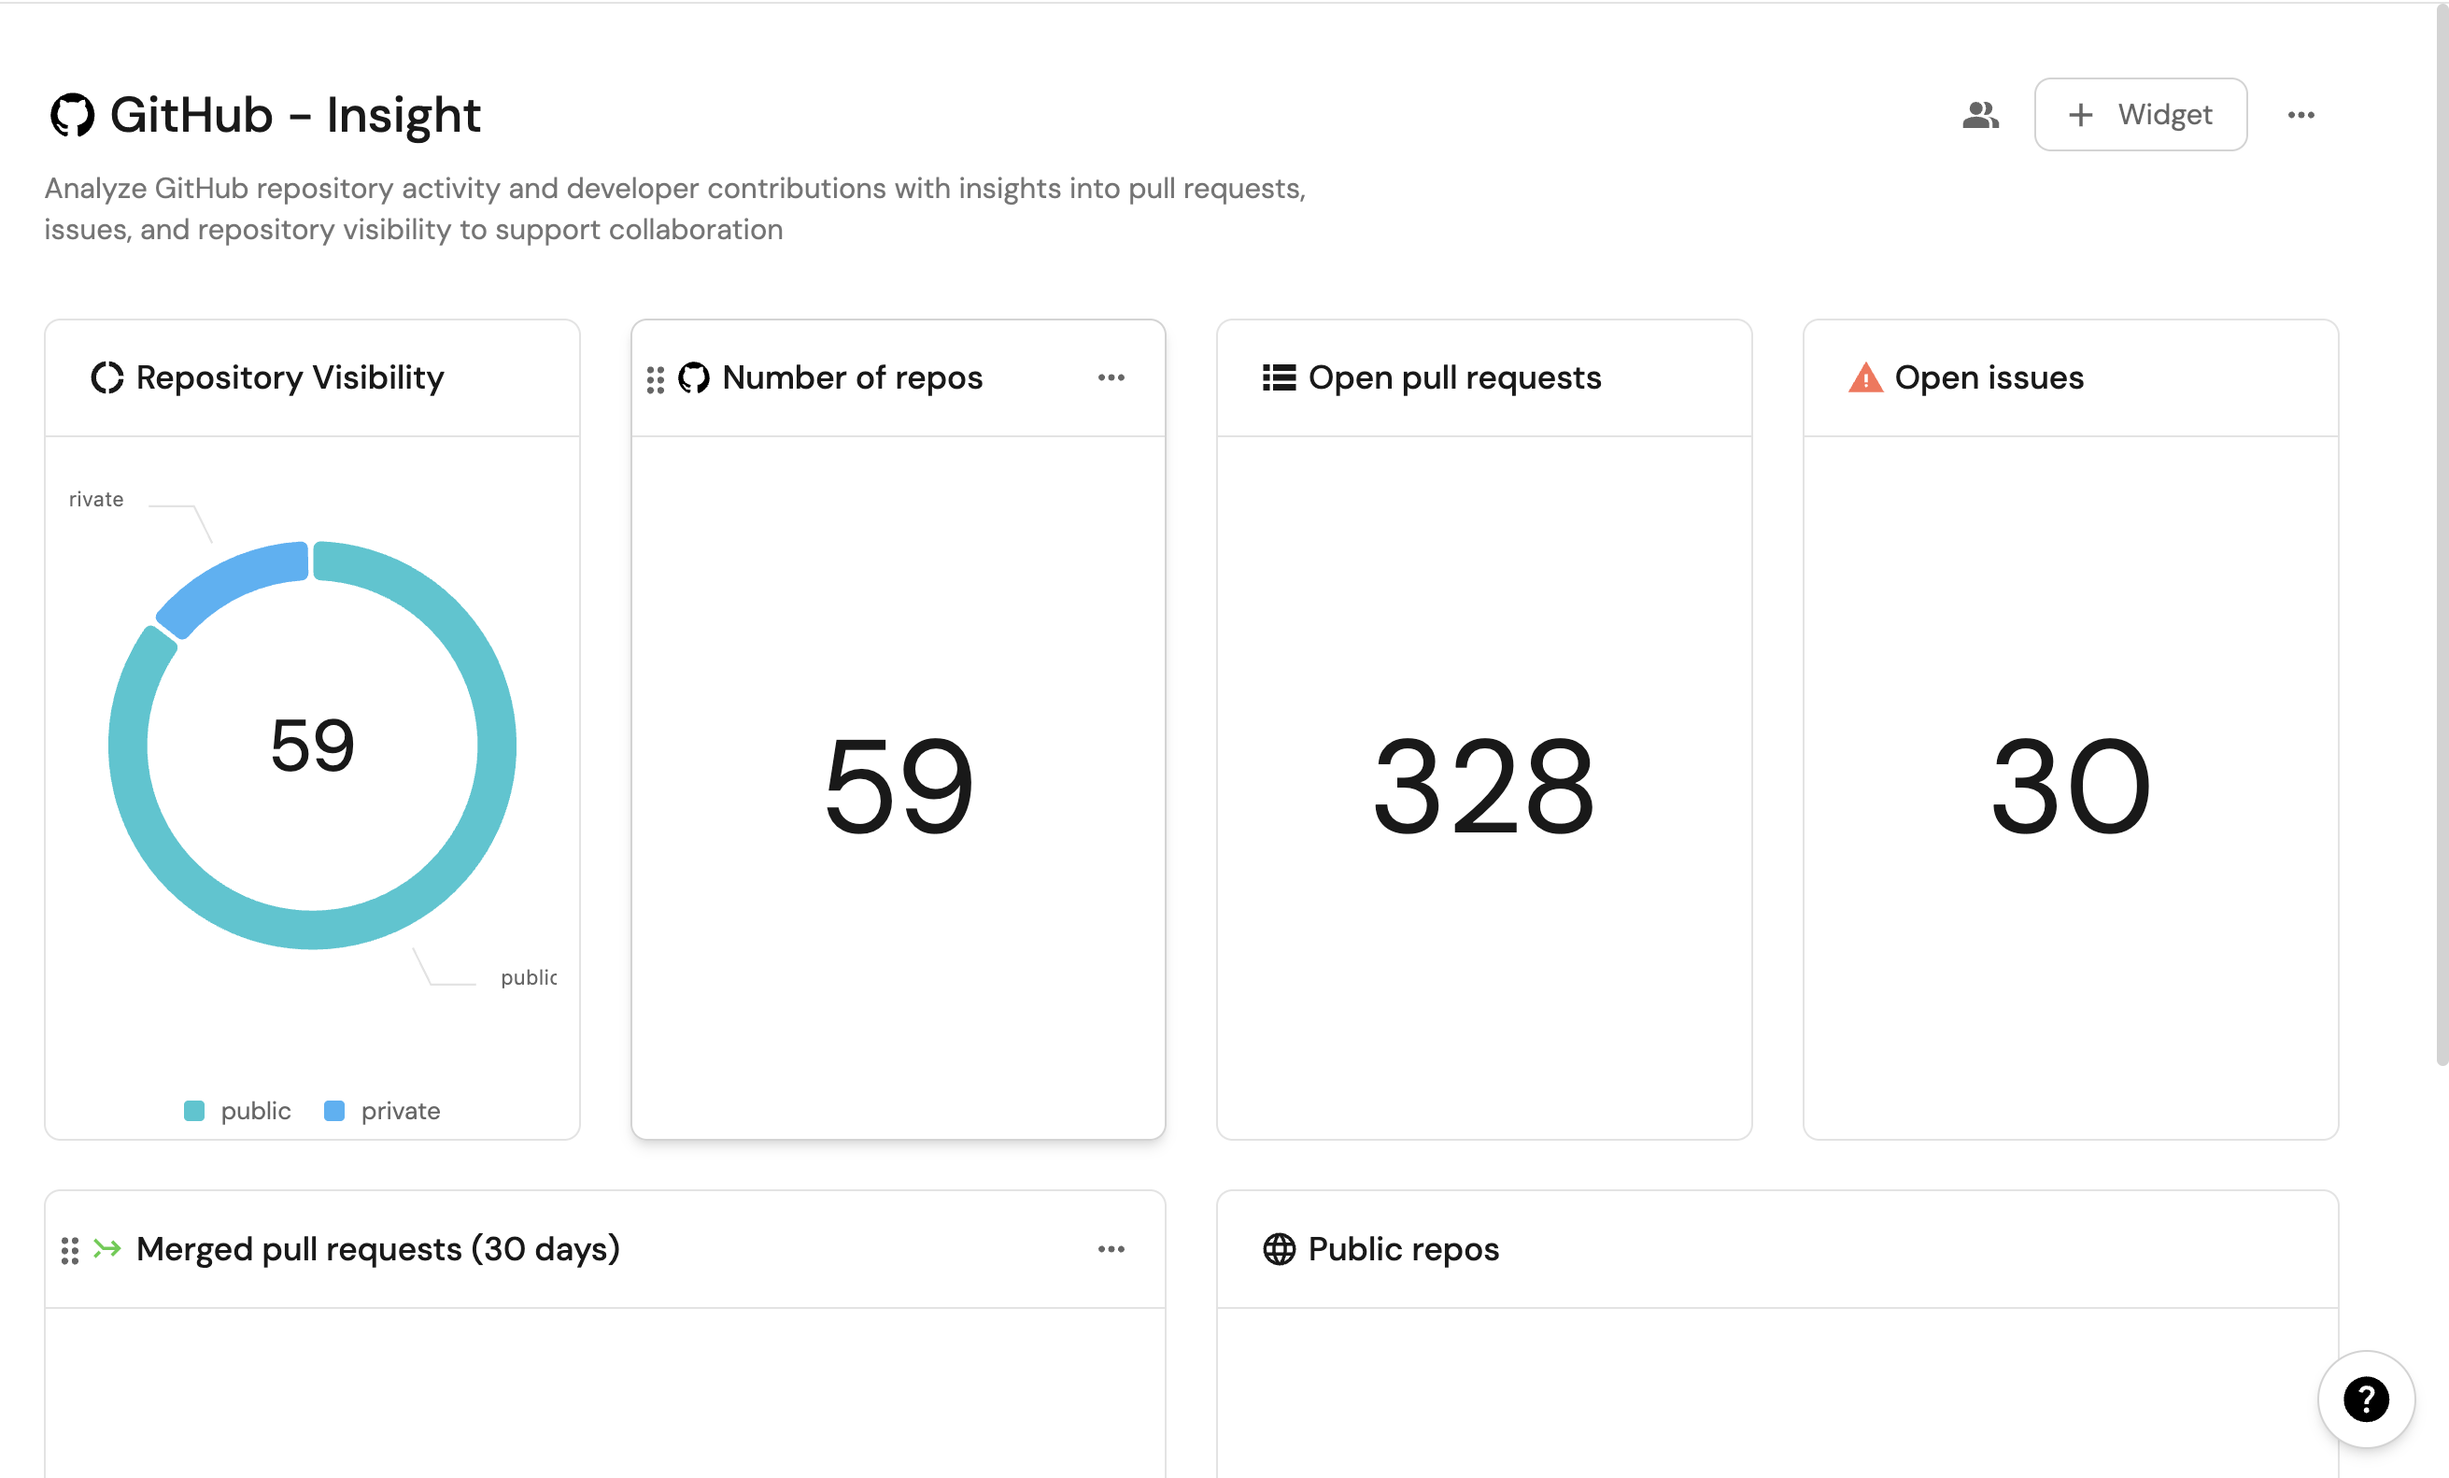
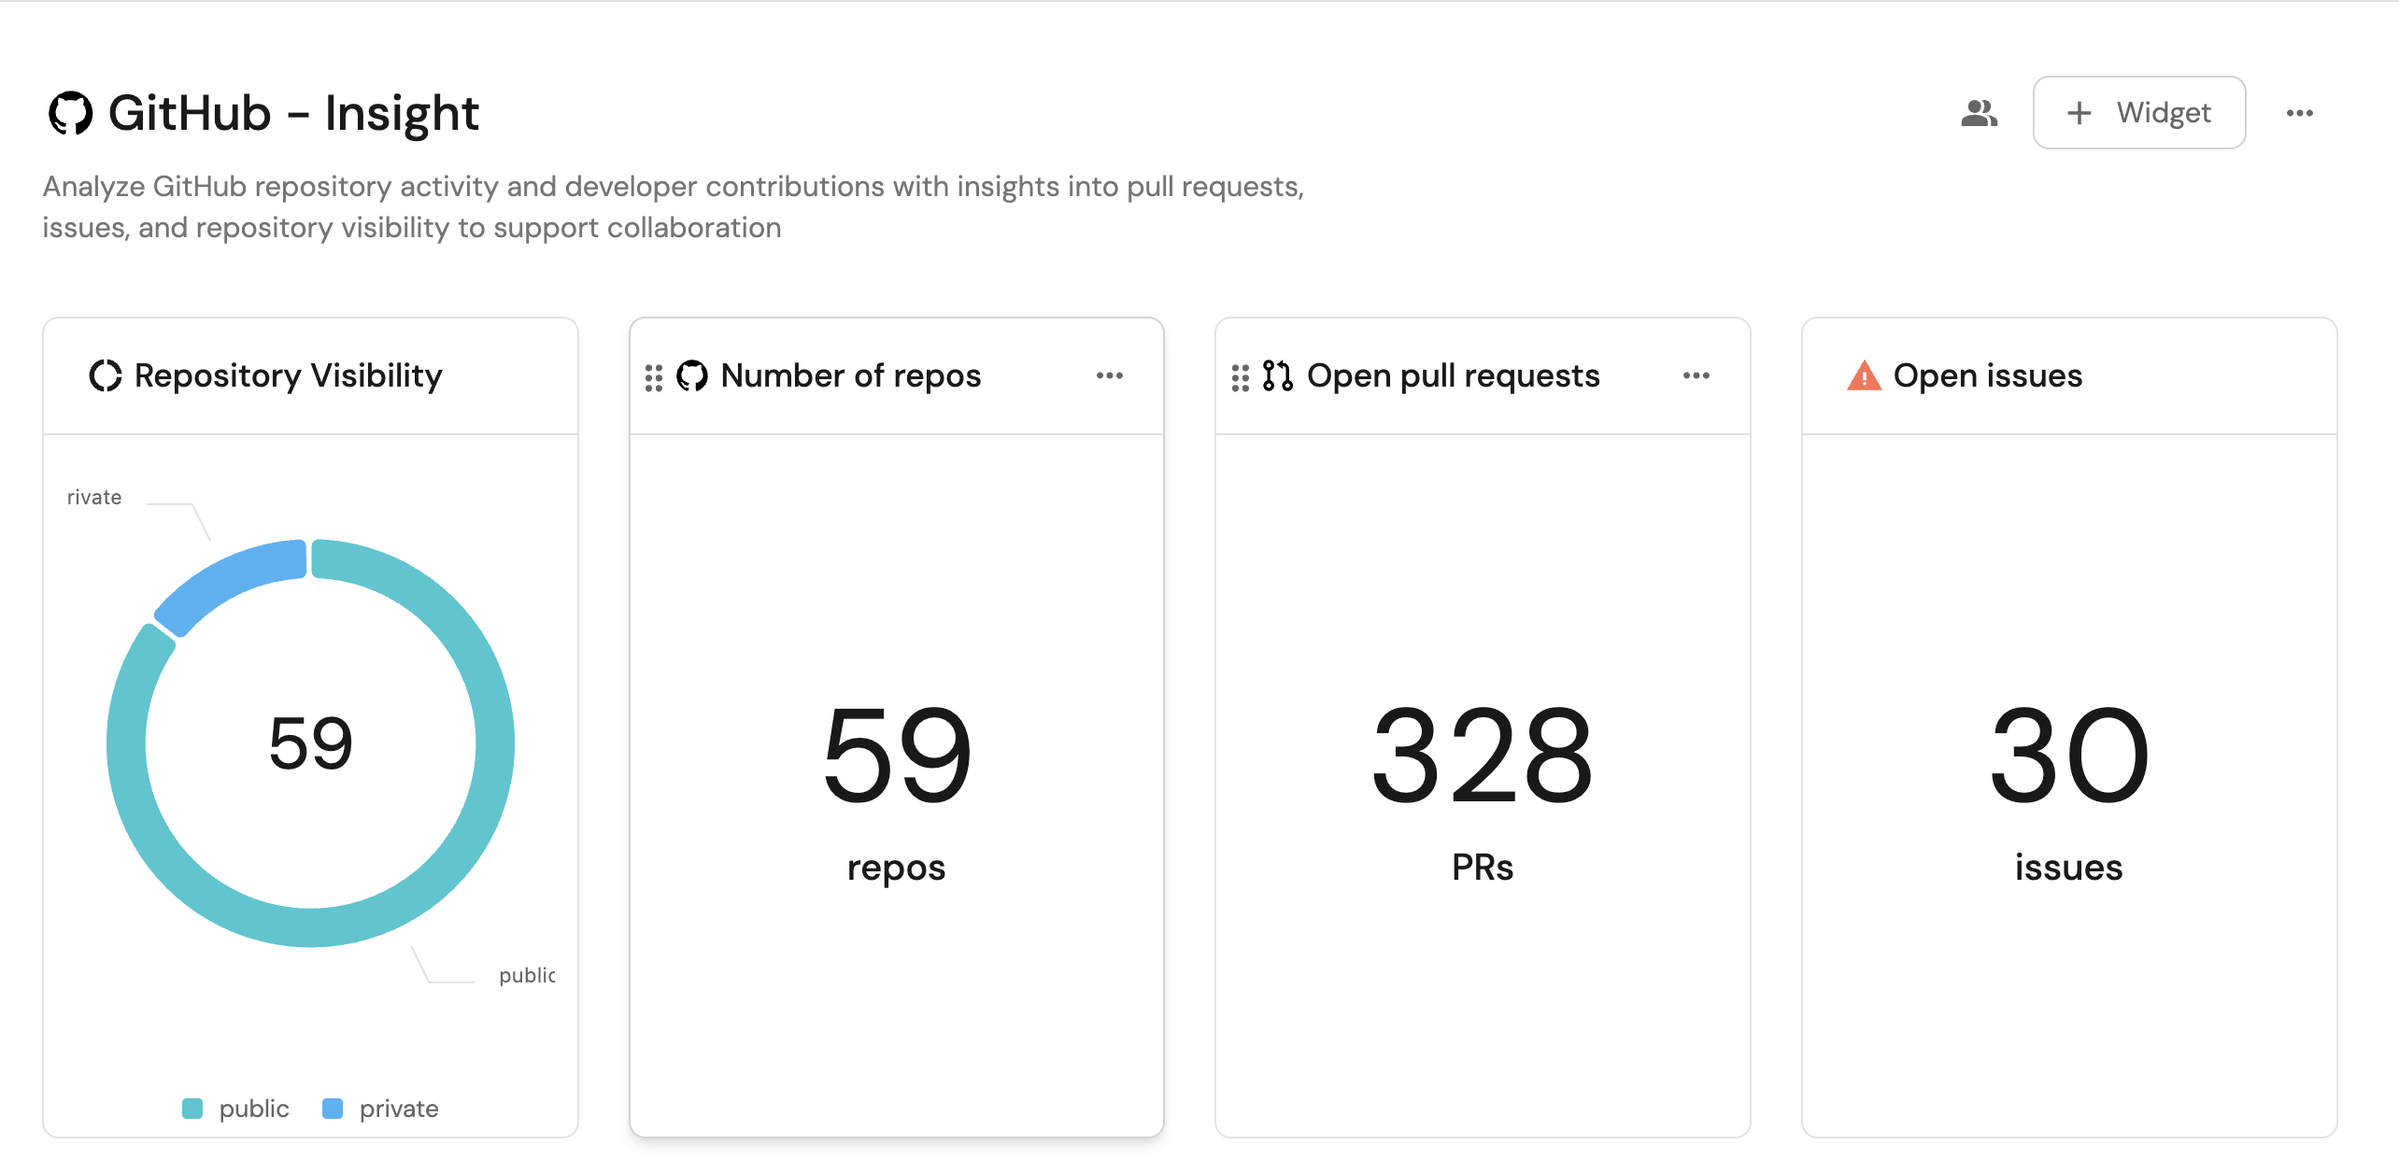
update data model setup and dashboard

diff --git a/docs/guides/all/visualize-your-github-repository-activity.md b/docs/guides/all/visualize-your-github-repository-activity.md
@@ -7,7 +7,7 @@ description: Learn how to gain insights into GitHub repositories and developer a
 
 This guide demonstrates how to set up a monitoring solution to get insights into your GitHub workspace using Port's **GitHub** integration. You'll learn how to visualize repository visibility, monitor pull requests and issues, and track developer activity over time.
 
-<img src="/img/guides/gitHubInsightDashboard.png" width="100%" />
+<img src="/img/guides/gitHubInsightDashboard.png" border="1px" width="100%" />
 
 ## Common use cases
 
@@ -18,65 +18,14 @@ This guide demonstrates how to set up a monitoring solution to get insights into
 
 This guide assumes the following:
 - You have a Port account and have completed the [onboarding process](https://docs.port.io/getting-started/overview).
-- [GitHub integration](/build-your-software-catalog/sync-data-to-catalog/git/github/) configured in your Port account.
+- [GitHub app](/build-your-software-catalog/sync-data-to-catalog/git/github/) installed in your Port account.
 
 
 ## Set up data model
 
-We will create three blueprints in this tutorial: `Repository`, `Pull Request` and `Issue`.
+When we install the GitHub app in Port, the `Repository` and `Pull Request` blueprints are created by default. However, the `Issue` blueprint is not created automatically, so we will need to create it manually.
 
-Let us start by creating or updating the `Repository` blueprint.   
-**Skip** to [update the repository blueprint](#update-the-repository-blueprint) if you already have the blueprint.
-
-### Create the repository blueprint
-Follow the steps below to **create** the `Repository` blueprint:
-
-1. Go to the [Builder](https://app.getport.io/settings/data-model) in your Port portal.
-2. Click on "+ Blueprint".
-3. Click on the `{...}` button in the top right corner, and choose `Edit JSON`.
-4. Add this JSON schema:
-
-   <details>
-   <summary><b>GitHub repository blueprint (Click to expand)</b></summary>
-
-   ```json showLineNumbers
-    {
-        "identifier": "githubRepository",
-        "title": "Repository",
-        "icon": "Microservice",
-        "schema": {
-            "properties": {
-            "readme": {
-                "title": "README",
-                "type": "string",
-                "format": "markdown"
-            },
-            "url": {
-                "title": "Repository URL",
-                "type": "string",
-                "format": "url"
-            },
-            "defaultBranch": {
-                "title": "Default branch",
-                "type": "string"
-            },
-            "visibility": {
-                "type": "string",
-                "title": "Visibility"
-            }
-            },
-            "required": []
-        },
-        "mirrorProperties": {},
-        "calculationProperties": {},
-        "aggregationProperties": {},
-        "relations": {}
-    }
-   ```
-
-   </details>
-
-5. Click `Save` to create the blueprint.
+Additionally, we will update the `Repository` blueprint to include a `visibility` property, which is not part of the default schema.
 
 ### Update the repository blueprint
 Follow the steps below to **update** the `Repository` blueprint:
@@ -100,105 +49,9 @@ Follow the steps below to **update** the `Repository` blueprint:
 4. Click `Save`.
 
 
-### Create the GitHub pull request blueprint
-
-We will then create the `Pull Request` blueprint.      
-**Skip** to the [set up data source mapping](#set-up-data-source-mapping) section if you already have the blueprint.
-
-1. Go to your [Builder](https://app.getport.io/settings/data-model) page.
-2. Click on `+ Blueprint`.
-3. Click on the `{...}` button in the top right corner, and choose `Edit JSON`.
-4. Add this JSON schema:
-    <details>
-    <summary><b>GitHub pull request (Click to expand)</b></summary>
-
-    ```json showLineNumbers
-    {
-        "identifier": "githubPullRequest",
-        "title": "Pull Request",
-        "icon": "Github",
-        "schema": {
-            "properties": {
-            "creator": {
-                "title": "Creator",
-                "type": "string"
-            },
-            "assignees": {
-                "title": "Assignees",
-                "type": "array"
-            },
-            "reviewers": {
-                "title": "Reviewers",
-                "type": "array"
-            },
-            "status": {
-                "title": "Status",
-                "type": "string",
-                "enum": ["merged", "open", "closed"],
-                "enumColors": {
-                "merged": "purple",
-                "open": "green",
-                "closed": "red"
-                }
-            },
-            "closedAt": {
-                "title": "Closed At",
-                "type": "string",
-                "format": "date-time"
-            },
-            "updatedAt": {
-                "title": "Updated At",
-                "type": "string",
-                "format": "date-time"
-            },
-            "mergedAt": {
-                "title": "Merged At",
-                "type": "string",
-                "format": "date-time"
-            },
-            "createdAt": {
-                "title": "Created At",
-                "type": "string",
-                "format": "date-time"
-            },
-            "link": {
-                "format": "url",
-                "type": "string"
-            },
-            "leadTimeHours": {
-                "title": "Lead Time in hours",
-                "type": "number"
-            }
-            },
-            "required": []
-        },
-        "mirrorProperties": {},
-        "calculationProperties": {
-            "days_old": {
-            "title": "Days Old",
-            "icon": "DefaultProperty",
-            "calculation": "(now / 86400) - (.properties.createdAt | capture(\"(?<date>\\\\d{4}-\\\\d{2}-\\\\d{2})\") | .date | strptime(\"%Y-%m-%d\") | mktime / 86400) | floor",
-            "type": "number"
-            }
-        },
-        "relations": {
-            "repository": {
-            "title": "Repository",
-            "target": "githubRepository",
-            "required": false,
-            "many": false
-            }
-        }
-    }
-    ```
-    </details>
-
-5. Click `Save` to create the blueprint.
-
-
 ### Create the Github issue blueprint
 
-And finally, we will create the `Issue` blueprint.      
+We will then create the `Issue` blueprint.      
 **Skip** to the [set up data source mapping](#set-up-data-source-mapping) section if you already have the blueprint.
 
 1. Go to your [Builder](https://app.getport.io/settings/data-model) page.
@@ -386,7 +239,7 @@ We now have a blank dashboard where we can start adding widgets to visualize our
 ### Add widgets
 
 <details>
-<summary><b>Repository visibility widget (click to expand)</b></summary>
+<summary><b>Repository visibility (click to expand)</b></summary>
 
 1. Click **`+ Widget`** and select **Pie chart**.
 2. Title: `Repository Visibility`.
